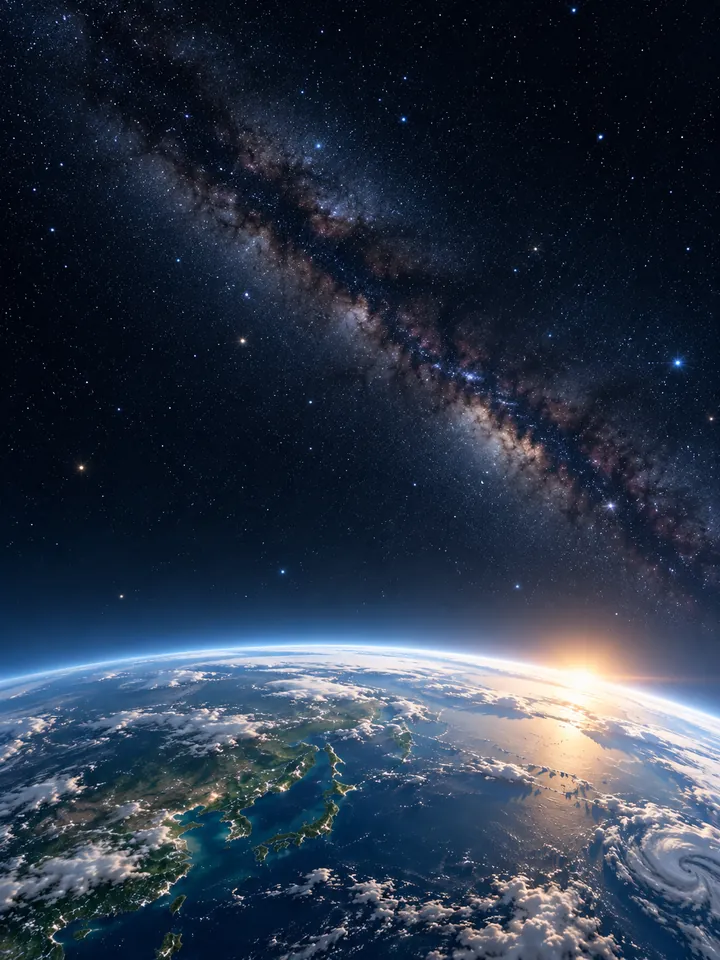
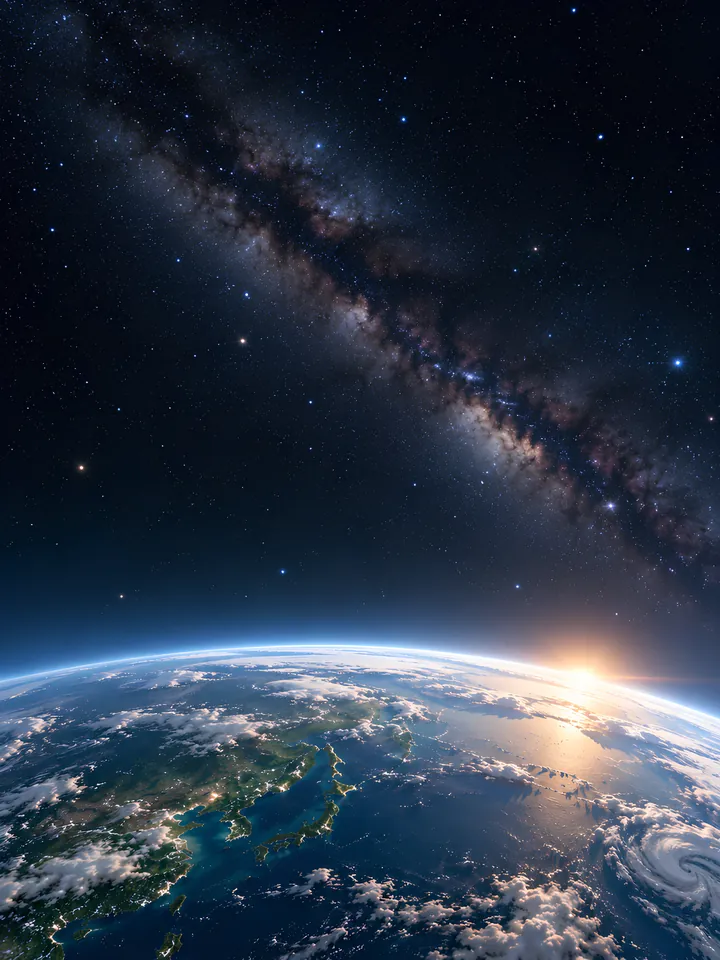
첫 화면 우주·학교 사진을 업스케일본으로 교체 (4K 대응, 화면 폭별 3개 크기)

diff --git a/_pages/index.html b/_pages/index.html
@@ -8,11 +8,11 @@ scripts: [/assets/home.js?v=20261023-newsnav]
 {% assign pubs = site.data.publications %}
 <div class="hero-pin" id="hero-pin">
 <section class="hero" id="hero">
-  {%- comment -%} 배경 사진(지구 지평선과 은하수 — 사용자 제작 2026-10-23 18:18, 1086×1448, 지평선은 그림의 67%, 60% 위치. 사용자 결정으로 이 사진으로 확정): 별 캔버스 아래. 스크롤로 장면이 시작되면 home.js 가 서서히 지운다 {%- endcomment -%}
-  <img class="hero-photo" data-horizon="0.67" src="{{ '/assets/hero-earth.webp' | relative_url }}?v=7" srcset="{{ '/assets/hero-earth-small.webp' | relative_url }}?v=7 720w, {{ '/assets/hero-earth.webp' | relative_url }}?v=7 1086w" sizes="100vw" alt="" aria-hidden="true" decoding="async" fetchpriority="high">
+  {%- comment -%} 배경 사진(지구 지평선과 은하수 — 사용자 제작 2026-10-23 18:18, 사용자가 업스케일한 그림을 3840×5120 으로 줄임, 지평선은 그림의 67%, 60% 위치. 사용자 결정으로 이 사진으로 확정): 별 캔버스 아래. 스크롤로 장면이 시작되면 home.js 가 서서히 지운다 {%- endcomment -%}
+  <img class="hero-photo" data-horizon="0.67" src="{{ '/assets/hero-earth-medium.webp' | relative_url }}?v=8" srcset="{{ '/assets/hero-earth-small.webp' | relative_url }}?v=8 720w, {{ '/assets/hero-earth-medium.webp' | relative_url }}?v=8 1920w, {{ '/assets/hero-earth.webp' | relative_url }}?v=8 3840w" sizes="100vw" alt="" aria-hidden="true" decoding="async" fetchpriority="high">
   <canvas class="hero-bg" aria-hidden="true"></canvas>
   {%- comment -%} 학교 사진: 장면 끝(! 가 내려앉을 때)에 별 위로 서서히 나타나며 살짝 커진다(화면을 채운 채) — 우주에서 학교로 내려오는 느낌 (home.js). 글이 읽히게 CSS 로 어둡게 {%- endcomment -%}
-  <img class="hero-campus" src="{{ '/assets/hero-campus.webp' | relative_url }}" srcset="{{ '/assets/hero-campus-small.webp' | relative_url }} 720w, {{ '/assets/hero-campus.webp' | relative_url }} 1000w" sizes="100vw" alt="" aria-hidden="true" decoding="async" loading="lazy">
+  <img class="hero-campus" src="{{ '/assets/hero-campus-medium.webp' | relative_url }}?v=2" srcset="{{ '/assets/hero-campus-small.webp' | relative_url }}?v=2 720w, {{ '/assets/hero-campus-medium.webp' | relative_url }}?v=2 1920w, {{ '/assets/hero-campus.webp' | relative_url }}?v=2 3840w" sizes="100vw" alt="" aria-hidden="true" decoding="async" loading="lazy">
   <div class="shell">
     <div class="hero-copy">
       <p class="hero-kicker">데이터탐구연구실 · Changwon National University</p>
